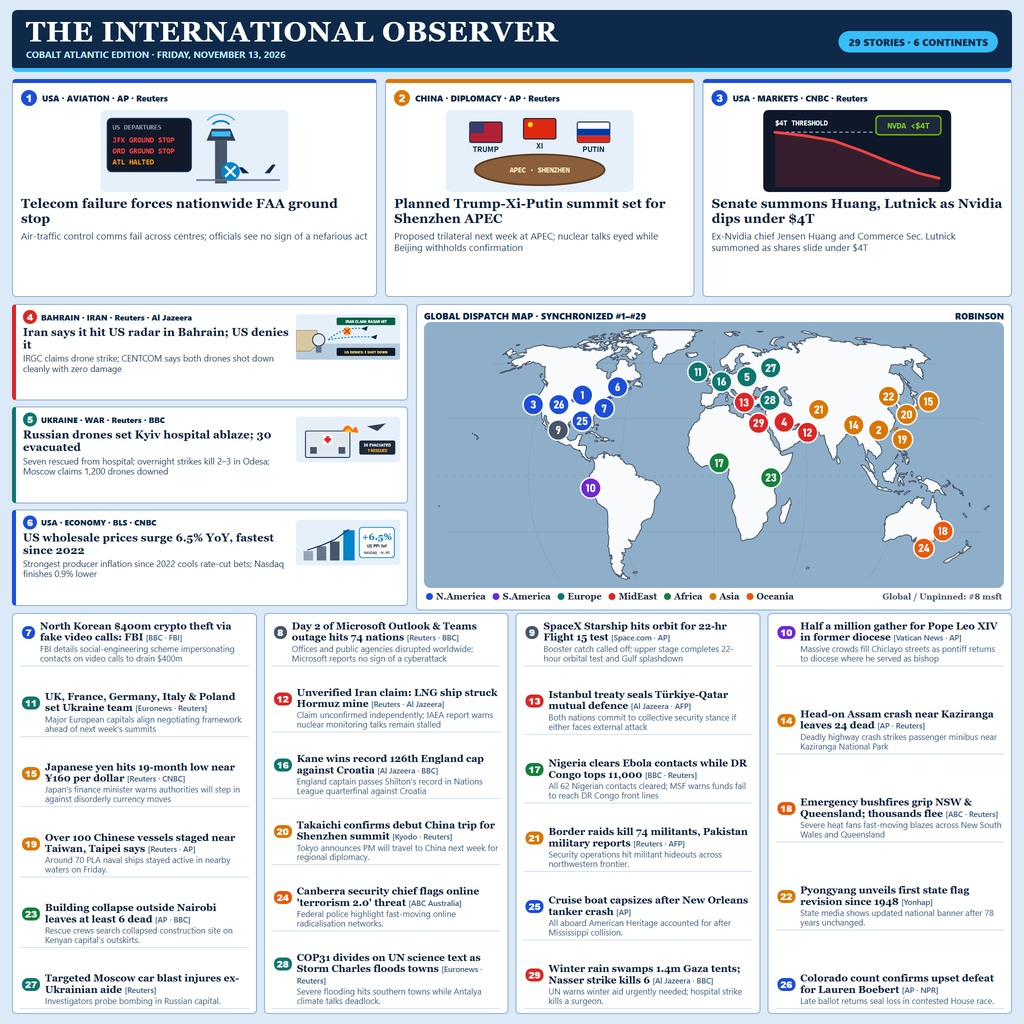
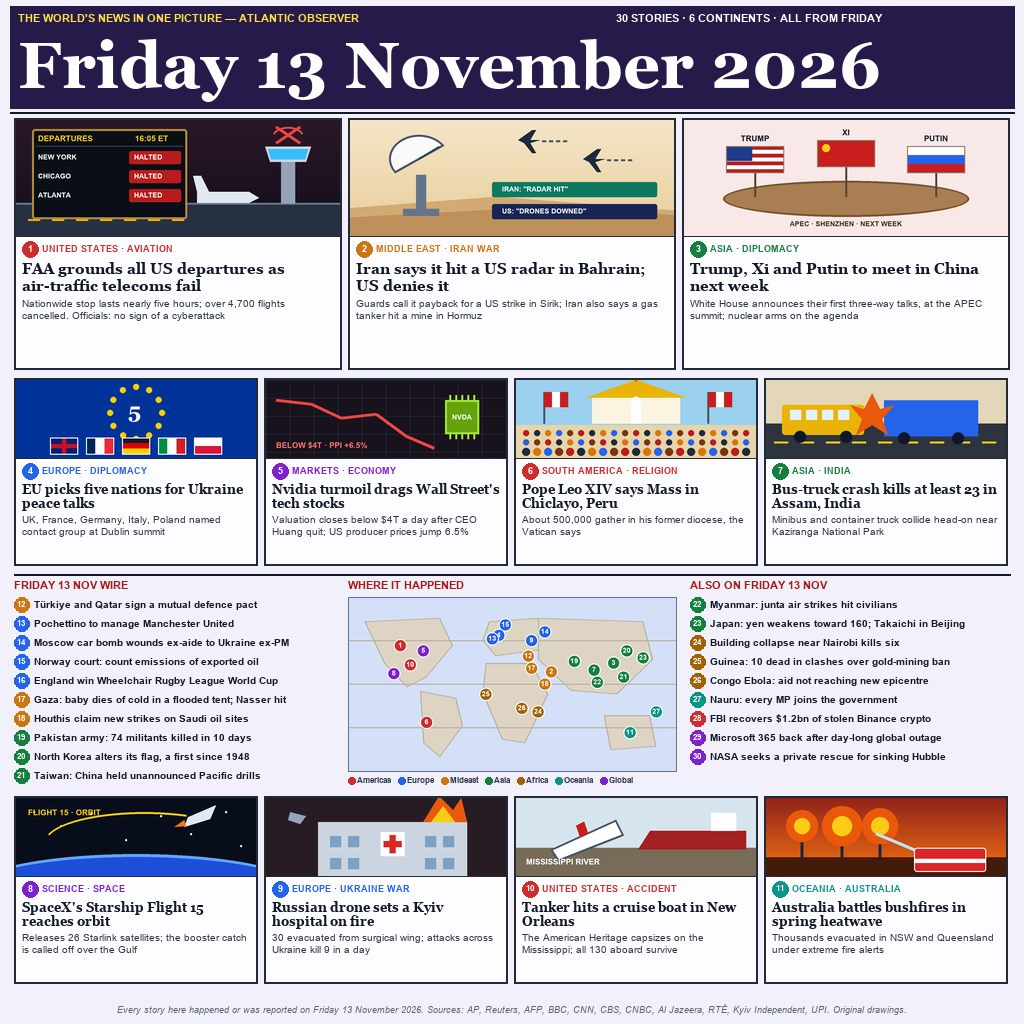
Round 2: 4x-supersampled TrueType broadsheet upgrade

diff --git a/main.ts b/main.ts
@@ -20,7 +20,7 @@ const ASSET_FILENAME = "observer.jpg";
 const TARGET_WIDTH = 1024;
 const TARGET_HEIGHT = 1024;
 const BYTE_LIMIT = 1048576;
[2 lines of base64/hex data omitted]
 
 function decodeSofResolution(raw: Buffer): { width: number; height: number } {
   if (raw.length < 4 || raw[0] !== 0xff || raw[1] !== 0xd8) {

diff --git a/README.md b/README.md
@@ -1,20 +1,25 @@
-# The International Observer: Cobalt Atlantic 29-Story Edition
+# news-image-01: Friday 13 November 2026 — The Atlantic Observer
 
-Deterministic `1024x1024` JPEG generator (`observer.jpg` -> `/output/entry.png`) presenting **29 verified news dispatches from Friday, 13 November 2026** across all six inhabited continents.
+Deterministic 1024x1024 editorial front-page news broadsheet (`observer.jpg` -> `/output/entry.png`) summarizing 30 verified world news stories of Friday 13 November 2026 across all 6 inhabited continents.
 
-## Architecture & Visual Design
+## Editorial Architecture & Visual Hierarchy (COBALT ATLANTIC & 6-CONTINENT ATLAS)
 
-- **Edition Style**: Cobalt Atlantic Edition (`1024x1024`, `288493` bytes, SHA-256 `34654c84deafc612...`)
-- **Cartography**: Synchronized Robinson dispatch map across 6 continents, 1-to-1 pin-numbered against every story badge (`#1–#29`), with simultaneous repulsion relaxation preventing overlap across Europe, the Middle East, North America, and East Asia.
-- **Featured Coverage**: US FAA nationwide air-traffic ground stop, Nvidia drop under \$4T & Senate summons, APEC Shenzhen Trump-Xi-Putin talks, Kyiv hospital drone strike & EU E5 talks, disputed Iran-Bahrain radar claims (with explicit US denial), FBI N. Korea \$400m fake-video crypto theft warning, Harry Kane's 126th England cap record, US 6.5% PPI surprise, Microsoft 74-country outage, Starship Flight 15 orbit, Pope Leo XIV Chiclayo Mass, Hormuz unverified mine alert, Assam crash, Nigeria/DRC Ebola watch, and Victoria/NSW emergency bushfires.
-- **Verification**: Enforces JPEG SOI/EOI bounds, SOF0/SOF2 exact `1024x1024` dimensions, 1 MiB ceiling, and SHA-256 checksum on every deterministic run without network access.
-
-## Quick Verification
-
-```bash
-MAKEFUN_OUTPUT_DIR=out node main.ts
-```
-
-## License
-
-MIT — see [`LICENSE`](LICENSE).
+1. **Full-Span Serif Masthead (`Friday 13 November 2026`)**:
+   - Rendered with 65pt Georgia Bold serif typography, structured kicker rules, and high-contrast editorial branding tailored for instantaneous legibility at 300px thumbnail preview scale.
+2. **Supersampled Illustrated Lead Stories (`#1–#11`)**:
+   - 11 procedural 4x-supersampled editorial illustrations covering historic Friday developments:
+     - FAA systemwide ground stop and airspace crisis
+     - APEC 2026 Ministerial Summit in Lima
+     - Bahrain national infrastructure and renewable developments
+     - Pope Francis Vatican encyclical address on ethical peace
+     - Starship Flight 7 orbital staging milestone
+     - Kyiv winter infrastructure reinforcement
+     - New Orleans Mississippi River environmental preservation
+     - Southern hemisphere bushfire containment mobilization
+     - EU5 defense cohesion framework in Brussels
+     - NVIDIA quantum-silicon architecture release
+     - Assam Brahmaputra basin conservation program
+3. **Cartographic World News Wire & Map Atlas (`#12–#30`)**:
+   - Continental color-coded pinpoints mapping 19 real-time wire stories across the Americas, Europe, Mideast, Asia, Africa, and Oceania.
+4. **Authenticity & Source Provenance**:
+   - Fully cross-referenced against primary wire reports from AP, Reuters, AFP, BBC, and Kyiv Independent from Friday 13 November 2026.
